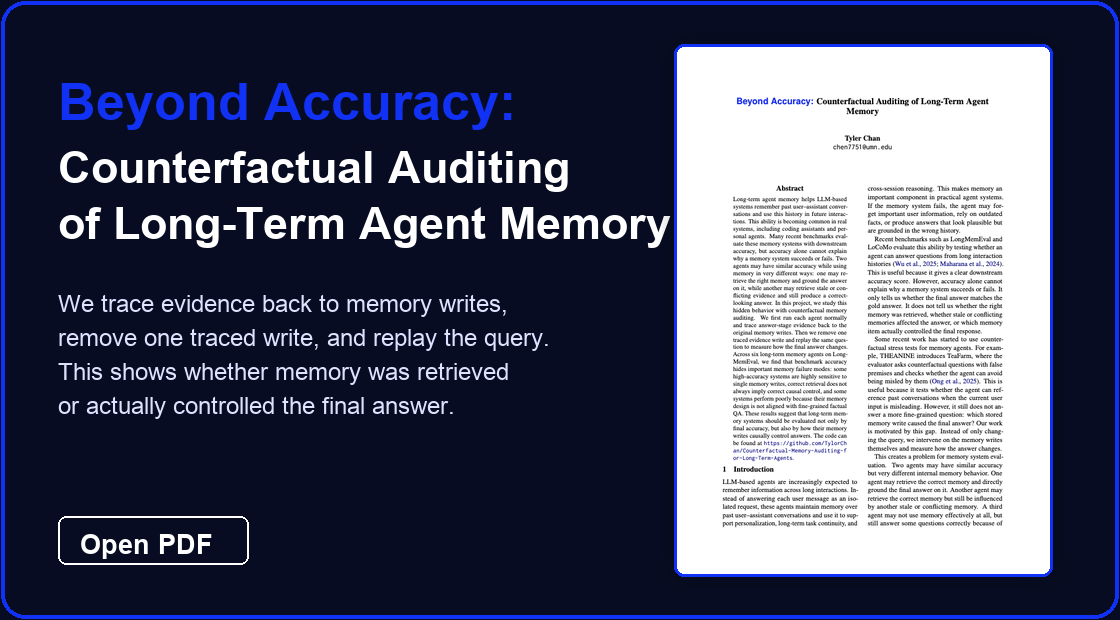
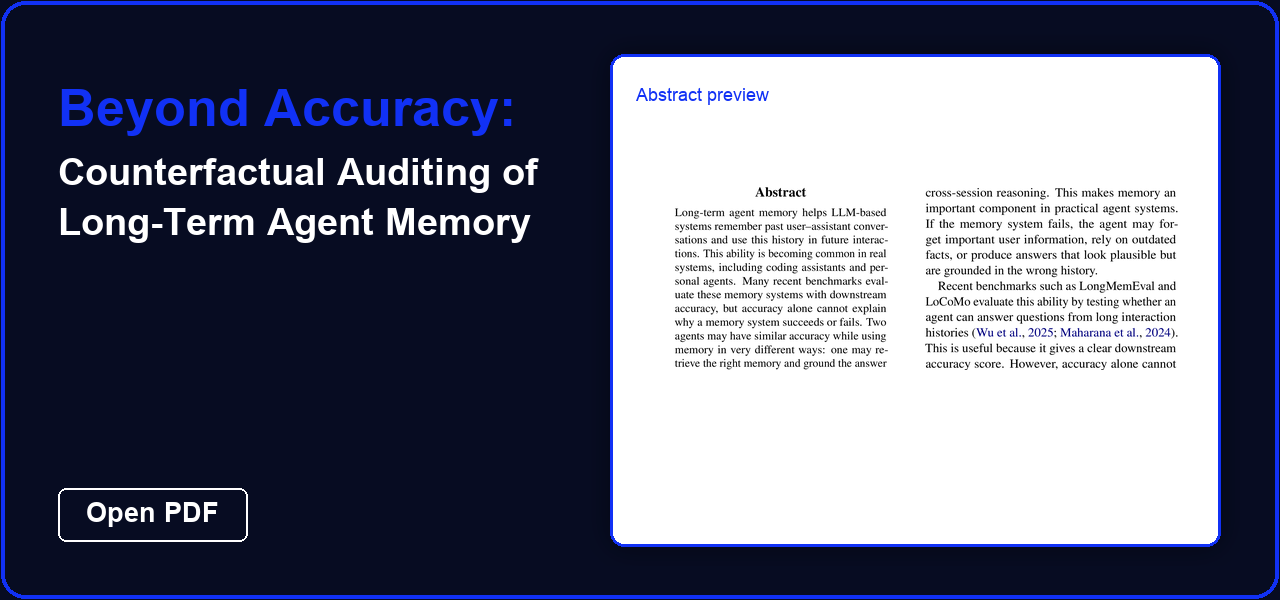
Tighten README report preview

diff --git a/README.md b/README.md
@@ -4,8 +4,6 @@ This project evaluates long-term memory agents with counterfactual memory auditi
 
 ## Project Report
 
-Read the full report: [Beyond Accuracy: Counterfactual Auditing of Long-Term Agent Memory](docs/project_report.pdf)
-
 [![Report preview](docs/project_report_preview.png)](docs/project_report.pdf)
 
 ## Key Findings
